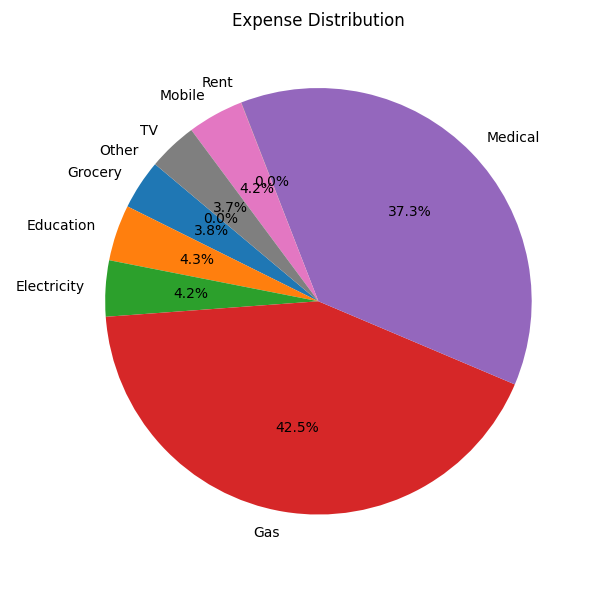
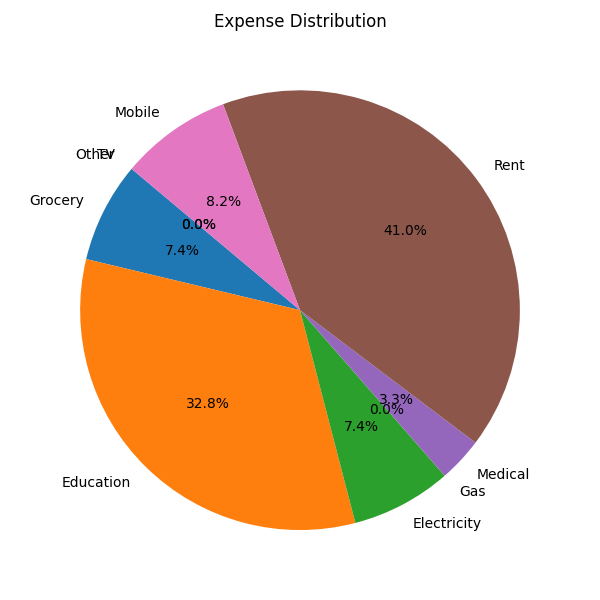
deployment setup

diff --git a/app.py b/app.py
@@ -5,8 +5,6 @@ import os
 from sklearn.linear_model import LogisticRegression
 import numpy as np
 
-
-
 app = Flask(__name__)
 
 # DB Connection
@@ -65,24 +63,40 @@ def classify_risk(savings_percent):
         return "Risky"
 
 
-def generate_suggestions(grocery, mobile, other):
+def generate_suggestions(grocery, mobile, other, rent, electricity, savings_percent, total_income):
     suggestions = []
 
-    if grocery > 5000:
-        suggestions.append("Reduce grocery expenses")
+    # More realistic thresholds
+    if grocery > 0.2 * total_income:
+        suggestions.append("Try reducing grocery expenses")
 
-    if mobile > 1000:
-        suggestions.append("Choose a cheaper mobile plan")
+    if mobile > 800:
+        suggestions.append("Consider switching to a cheaper mobile plan")
 
-    if other > 3000:
+    if other > 2000:
         suggestions.append("Control unnecessary expenses")
 
+    if rent > 0.35 * total_income:
+        suggestions.append("Rent is quite high, consider cost optimization")
+
+    if electricity > 1500:
+        suggestions.append("Try to reduce electricity usage")
+
+    # Savings-based suggestions
+    if savings_percent < 0:
+        suggestions.append("You are overspending! Expenses exceed income")
+
+    elif savings_percent < 10:
+        suggestions.append("Your savings are low. Try reducing expenses")
+
+    elif savings_percent < 20:
+        suggestions.append("Savings are moderate. You can improve")
+
+    # Default case
     if len(suggestions) == 0:
         suggestions.append("Your spending is well managed!")
 
     return suggestions
-
-
 def train_model():
     # sample training data
     X = np.array([[10], [15], [25], [30], [5], [8]])
@@ -101,15 +115,15 @@ model = train_model()
 def result():
     total_income = float(request.form['total_income'])
 
-    grocery = float(request.form['grocery'])
-    education = float(request.form['education'])
-    electricity = float(request.form['electricity'])
-    gas = float(request.form['gas'])
-    medical = float(request.form['medical'])
-    rent = float(request.form['rent'])
-    mobile = float(request.form['mobile'])
-    tv = float(request.form['tv'])
-    other = float(request.form['other'])
+    grocery = float(request.form.get('grocery') or 0)
+    education = float(request.form.get('education') or 0)
+    electricity = float(request.form.get('electricity') or 0)
+    gas = float(request.form.get('gas') or 0)
+    medical = float(request.form.get('medical') or 0)
+    rent = float(request.form.get('rent') or 0)
+    mobile = float(request.form.get('mobile') or 0)
+    tv = float(request.form.get('tv') or 0)
+    other = float(request.form.get('other') or 0)
 
     total_expense = (grocery + education + electricity + gas +
                      medical + rent + mobile + tv + other)
@@ -128,7 +142,7 @@ def result():
         risk = "Safe"
 
     # ✅ Suggestions
-    suggestions = generate_suggestions(grocery, mobile, other)
+    suggestions = generate_suggestions(grocery, mobile, rent, electricity,savings_percent, total_income,other)
 
     # ✅ GRAPH CODE (PUT HERE 🔥)
     categories = ['Grocery', 'Education', 'Electricity', 'Gas', 'Medical', 'Rent', 'Mobile', 'TV', 'Other']
@@ -164,6 +178,18 @@ def result():
     graph_path = os.path.join(base_dir, 'static', 'graph.png')
     plt.savefig(graph_path)
     plt.close()
+
+    query = """
+    INSERT INTO expenses 
+    (grocery, education, electricity, gas, medical, rent, mobile, tv, other, total_income, total_expense, savings, savings_percent, risk)
+    VALUES (%s, %s, %s, %s, %s, %s, %s, %s, %s, %s, %s, %s, %s, %s)
+    """
+
+    values = (grocery, education, electricity, gas, medical, rent, mobile, tv, other,
+          total_income, total_expense, savings, savings_percent, risk)
+
+    cursor.execute(query, values)
+    conn.commit()
 
     # ✅ Return result
     return render_template('result.html',
